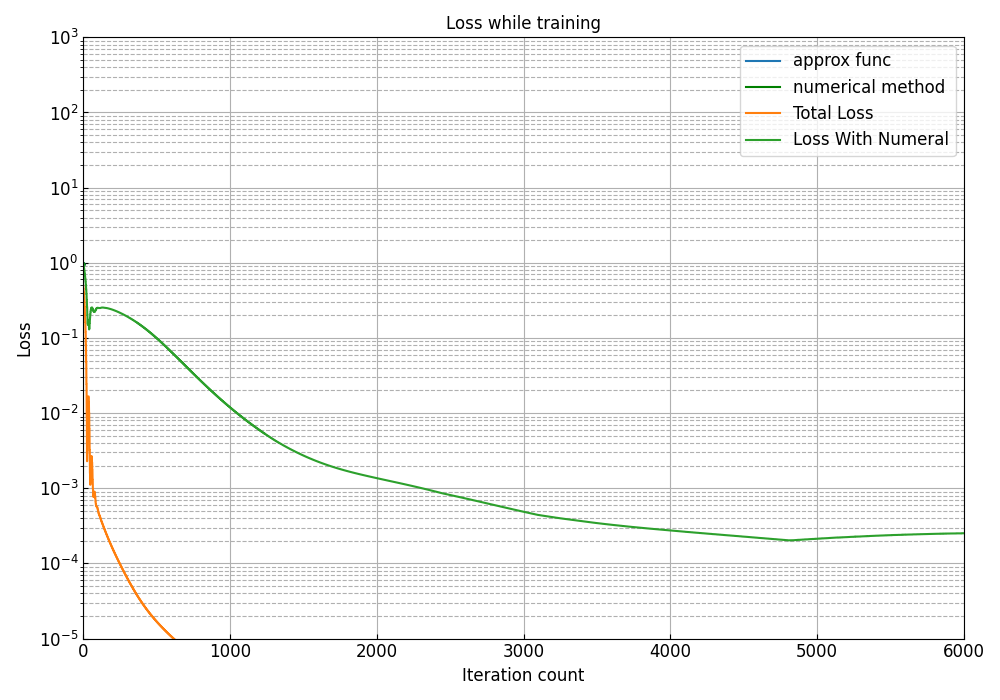
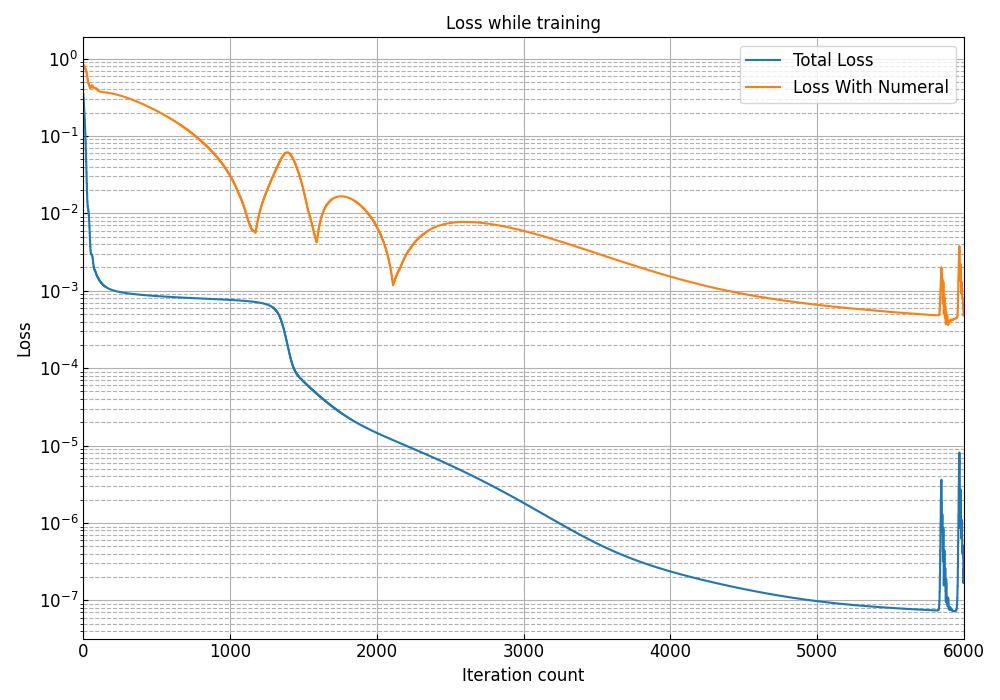
study_update

Changed region(s): [[0.031, 0.03, 0.961, 0.9], [0.031, 0.9, 0.062, 0.93]]

diff --git a/src/Neural_network_PINN.py b/src/Neural_network_PINN.py
@@ -136,7 +136,7 @@ def draw_approx(net, t):
     plt.title('Approxing Duffing equation')
     plt.tight_layout()
     plt.savefig(r"./figs/approx_Duffing.png")
-    # plt.show()
+    plt.show()
 
 def draw_history(net, t):
     fs = 12
@@ -148,7 +148,7 @@ def draw_history(net, t):
     plt.grid(which='major', linestyle='-')
     plt.grid(which='minor', linestyle='--')
     plt.xlim(0, epohs)
-    plt.ylim(1e-5, 1e3)
+    # plt.ylim(1e-5, 1e3)
     plt.xticks(fontsize=fs)
     plt.yticks(fontsize=fs)
     ax.tick_params(axis='both',direction='in')
@@ -159,13 +159,14 @@ def draw_history(net, t):
     plt.title('Loss while training')
     plt.tight_layout()
     plt.savefig(r"./figs/history_Duffing.png")
-    # plt.show()
+    plt.show()
 
 if __name__ == "__main__":
-    gamma, delta, alpha, beta = (0.001, 0.02, 0.0001, 0.001)
+    gamma, delta, alpha, beta = (0.04, 0.02, 0.0001, 0.001)
     par = 1.25
     omega = torch.pi*par
     p = (gamma, delta, alpha, beta, omega)
+    
     # set the numerical approximation
     a = Approx(p)
     b = a.solve()
